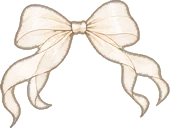
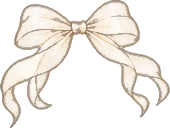
オーガンジーリボン（シャンパン・はちみつ）：中の線画も濃く
Claude-Session: https://claude.ai/code/session_01LsuWBkhUDp3d2Zrt24Lv8i

diff --git a/js/app.js b/js/app.js
@@ -23,7 +23,7 @@ const KCAL_PER_FAT_G = 7.2;  // 体脂肪1gあたりのカロリー
 // 保存名はすべて「n-app-」で始める（同じサイト上のほかのアプリとまざらないように）
 const STORAGE_KEY = "n-app-data";
 const LEGACY_STORAGE_KEY = "n-undou-bin.v1"; // 前の保存名（自動で引っ越す）
-const APP_VERSION = "11/30-59"; // 更新するたびに変える（設定画面に表示）
+const APP_VERSION = "11/30-60"; // 更新するたびに変える（設定画面に表示）
 
 // ---------- データの読み書き ----------
 

diff --git a/sw.js b/sw.js
@@ -9,8 +9,8 @@
 // ★ プログラムを直したら CODE_VERSION を、今ある画像を描き直したら IMAGE_VERSION を、必ず1つ上げる。
 //   （新しい画像を足しただけなら IMAGE_VERSION はそのまま。足した分だけダウンロードされる）
 importScripts("js/bottles.js", "js/bigbottles.js", "js/series.js");
-const CODE_VERSION = 162;
-const IMAGE_VERSION = 12;
+const CODE_VERSION = 163;
+const IMAGE_VERSION = 13;
 const CODE_CACHE = `n-app-cache-v${CODE_VERSION}`;
 const IMAGE_CACHE = `n-app-images-v${IMAGE_VERSION}`;
 
